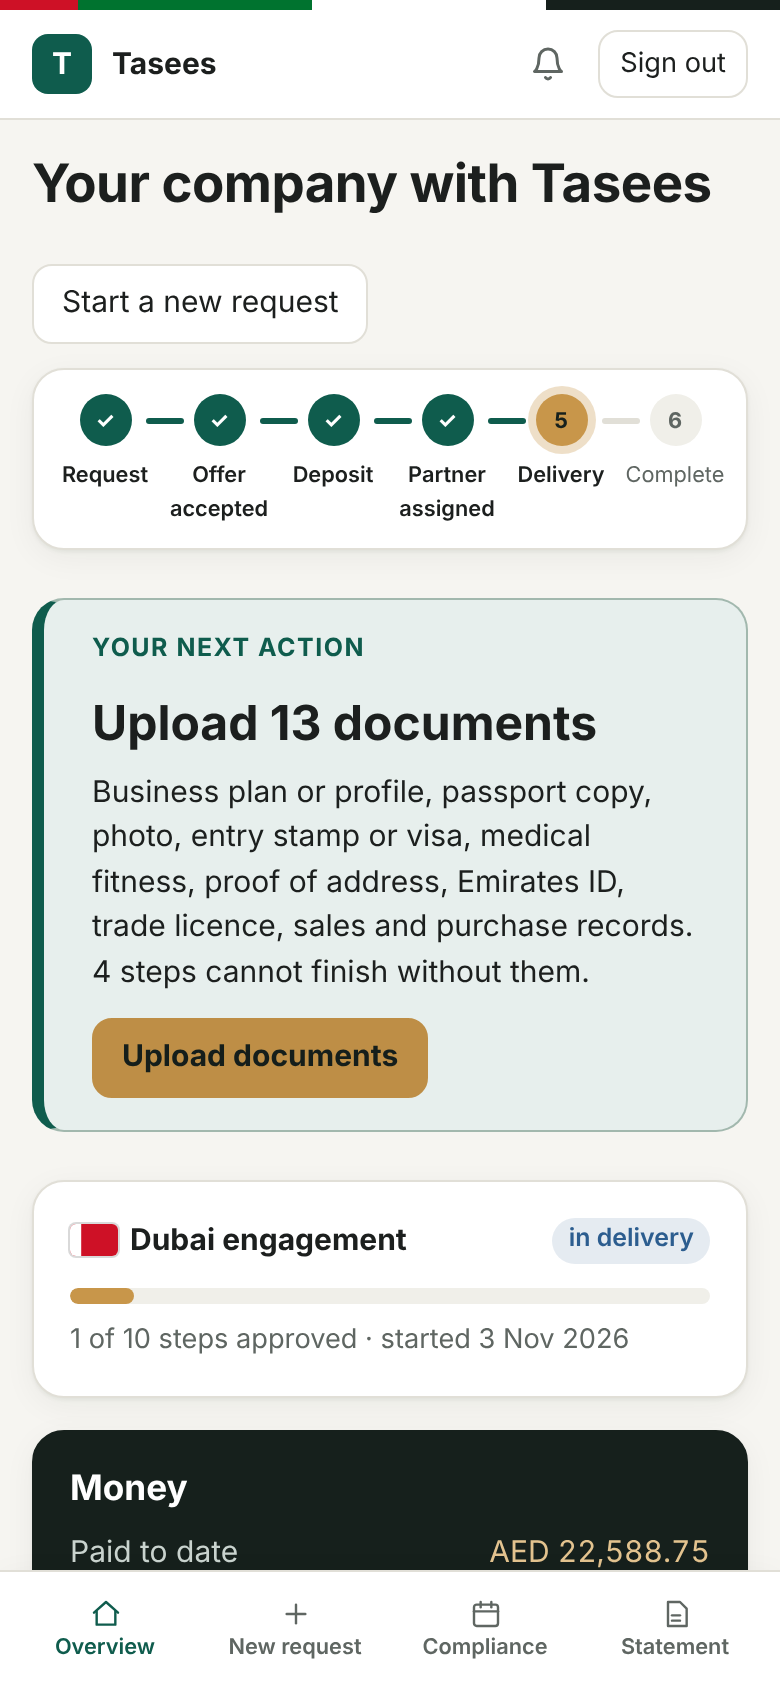
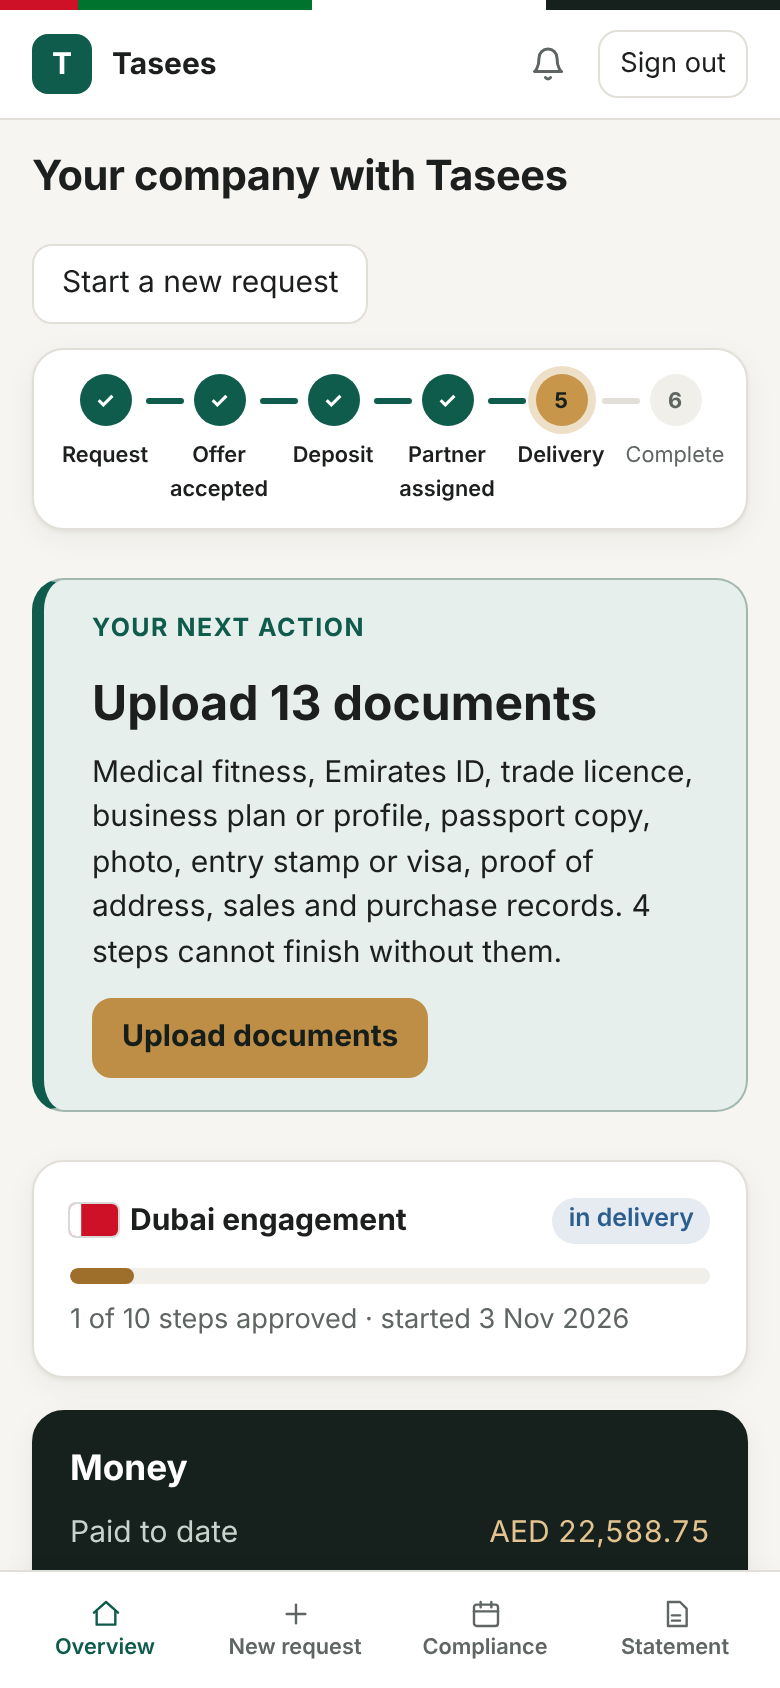
E9 review fixes: one current step, expired offers said as such, phone headings, one gold button, tab title by audience (gap 86), 3:1 progress fill, selector counter class, step details for screen readers, disputes named
Claude-Session: https://claude.ai/code/session_01QzEGiu7q2Qy5LpHAKh2X9v

diff --git a/apps/web/public/styles.css b/apps/web/public/styles.css
@@ -359,7 +359,9 @@ button.primary, .btn.primary { font-weight: 650; }
 button.gold, .btn.gold { background: var(--gold); color: var(--gold-ink); border-color: var(--gold); font-weight: 700; }
 button.gold:hover, .btn.gold:hover { filter: brightness(0.95); border-color: var(--gold); }
 .card, details.panel, .summary, .kpi { border-radius: var(--radius-lg); }
-.progress > span { background: var(--gold); }
+/* A darker gold for fills on the light track (3:1 for graphics, WCAG 1.4.11); the dark theme's gold is light enough. */
+.progress > span { background: var(--gold-fill); }
+button.link { min-height: 0; }
 .flag { display: inline-flex; vertical-align: -3px; border-radius: 3px; overflow: hidden; box-shadow: 0 0 0 1px rgba(0, 0, 0, 0.15); margin-inline-end: 6px; flex: none; }
 .flag svg { display: block; }
 /* Menus: icons beside every entry for clients and partners at every width; the staff bar is dark. */
@@ -383,7 +385,7 @@ body[data-audience="platform"] .search input::placeholder { color: var(--ink-pan
 .panel-dark { background: var(--ink-panel); color: var(--ink-panel-text); border-color: var(--ink-panel); }
 .panel-dark h2, .panel-dark b { color: var(--ink-panel-text); }
 .panel-dark .muted, .panel-dark dt, .panel-dark .small { color: var(--ink-panel-muted); }
-.panel-dark .num, .panel-dark dd, .panel-dark .gold-figure { color: var(--gold-text); font-variant-numeric: tabular-nums; }
+.panel-dark .num, .panel-dark dd { color: var(--gold-text); font-variant-numeric: tabular-nums; }
 .panel-dark a { color: var(--gold-text); }
 .panel-dark dt.total, .panel-dark dd.total { border-top-color: #3a4842; }
 .panel-dark dd.total { font-size: 1.35rem; }
@@ -405,15 +407,11 @@ ol.journey .what { font-size: var(--text-xs); font-weight: 400; color: var(--mut
 .kpis.lead-kpis .kpi:first-child { background: var(--ink-panel); border-color: var(--ink-panel); }
 .kpis.lead-kpis .kpi:first-child b { color: var(--gold-text); } .kpis.lead-kpis .kpi:first-child span { color: var(--ink-panel-muted); }
 .kpis.lead-kpis .kpi:first-child .ico { background: var(--ink-panel-2); color: var(--gold-text); }
-/* The queue's counts by urgency. */
-.qcounts { display: grid; grid-template-columns: repeat(auto-fit, minmax(150px, 1fr)); gap: 10px; margin: 0 0 var(--space-4); }
-.qcounts > div { padding: 12px 14px; border-radius: var(--radius-lg); border: 1px solid var(--line); background: var(--surface); border-inline-start: 5px solid var(--line); }
-.qcounts b { display: block; font-size: 1.5rem; font-variant-numeric: tabular-nums; }
-.qcounts .overdue { border-inline-start-color: var(--bad); } .qcounts .due_soon { border-inline-start-color: var(--warn); } .qcounts .on_track { border-inline-start-color: var(--ok); }
 @media (max-width: 640px) {
   body[data-audience="client"] nav#nav a svg, body[data-audience="partner"] nav#nav a svg { margin-inline-end: 0; }
   ol.journey { padding: var(--space-3) var(--space-2); gap: 2px; }
-  ol.journey .what { display: none; }
+  ol.journey .what { position: absolute; width: 1px; height: 1px; overflow: hidden; clip: rect(0 0 0 0); white-space: nowrap; }
+  h1 { font-size: 1.3rem; }
   ol.journey li { font-size: 0.68rem; }
   ol.journey .step { width: 26px; height: 26px; }
   ol.journey li::before { top: 12px; }

diff --git a/apps/web/public/js/client.js b/apps/web/public/js/client.js
@@ -48,7 +48,7 @@ export function clientJourney(h) {
       ["Offer accepted", "done"],
       ["Deposit", paid ? "done" : "now", paid ? "" : "due now"],
       ["Partner assigned", working ? "done" : paid ? "now" : "todo", paid && !working ? "MKW Advisors is assigning" : ""],
-      ["Delivery", working ? "now" : "todo", working ? `${e.approved} of ${e.milestones} steps approved` : ""],
+      ["Delivery", working ? "now" : "todo", e.status === "disputed" ? "an issue is open" : working ? `${e.approved} of ${e.milestones} steps approved` : ""],
       ["Complete", "todo"],
     ];
   }
@@ -58,18 +58,28 @@ export function clientJourney(h) {
   const offers = h.offers.filter((o) => o.requestId === r.id && o.status !== "withdrawn");
   const published = offers.some((o) => o.status === "published");
   const accepted = offers.some((o) => o.status === "accepted");
+  // "Being priced" only while MKW is pricing; an offer that lapsed is said as such (accepting it is refused).
+  const pricing = !published && !accepted && (["draft", "scoped", "quoting"].includes(r.status) || offers.some((o) => ["draft", "ops_review"].includes(o.status)));
+  const expired = !published && !accepted && !pricing && offers.some((o) => o.status === "expired");
   // Advice is a step only when there is advice to review ("none" is stored for a services request: no advice at all).
   const advice = r.adviceStatus === "pending_review" || r.adviceStatus === "approved";
   const adviceDone = r.adviceStatus === "approved";
-  return [
+  const steps = [
     ["Request", "done"],
     ...(advice ? [["Advice", adviceDone ? "done" : "now", adviceDone ? "" : "being checked by a person"]] : []),
-    ["Offer", accepted ? "done" : published ? "now" : advice && !adviceDone ? "todo" : "now", published && !accepted ? "ready to review" : !published && !accepted && (!advice || adviceDone) ? "being priced" : ""],
+    ["Offer", accepted ? "done" : advice && !adviceDone ? "todo" : "now", published ? "ready to review" : expired ? "expired: ask for a fresh offer" : pricing ? "being priced" : ""],
     ["Deposit", accepted ? "now" : "todo"],
     ["Delivery", "todo"],
     ["Complete", "todo"],
   ];
+  return oneNow(steps);
 }
+
+/** One step is current: an offer can be published while advice is still being checked, so later "now"s wait. */
+const oneNow = (steps) => {
+  let seen = false;
+  return steps.map(([n, st, what]) => (st === "now" ? (seen ? [n, "todo", what] : ((seen = true), [n, st, what])) : [n, st, what]));
+};
 
 export async function renderClientHome() {
   // The statement and the calendar are the client's own too; a failure in either leaves the overview standing.

diff --git a/apps/web/public/selector.html b/apps/web/public/selector.html
@@ -37,7 +37,7 @@
     .choice[aria-pressed="true"] { border-color: var(--brand); box-shadow: inset 0 0 0 1px var(--brand); background: var(--brand-soft); }
     .choice small { display: block; color: var(--muted); }
     .step { margin-top: 12px; }
-    .progress { color: var(--muted); font-size: 0.85rem; display: flex; justify-content: space-between; gap: 12px; margin: 0 0 6px; }
+    .qcount { color: var(--muted); font-size: 0.85rem; display: flex; justify-content: space-between; gap: 12px; margin: 0 0 6px; }
     progress.bar { width: 100%; height: 6px; appearance: none; border: 0; border-radius: 3px; background: var(--surface-2); overflow: hidden; }
     progress.bar::-webkit-progress-bar { background: var(--surface-2); border-radius: 3px; }
     progress.bar::-webkit-progress-value { background: var(--brand); border-radius: 3px; }
@@ -237,7 +237,7 @@
       <div class="row"><label class="small" for="code">Have a saved result? Enter its code</label><input id="code" name="code" maxlength="10" autocapitalize="characters" style="max-width:160px" placeholder="ABCDE23456" /><button type="submit" class="sm">Open</button><span class="small muted" id="recover-msg" aria-live="polite"></span></div>
     </form>
     <form class="card" id="questions" novalidate hidden>
-      <p class="progress"><span id="progress" aria-live="polite"></span><span id="progress-left"></span></p>
+      <p class="qcount"><span id="progress" aria-live="polite"></span><span id="progress-left"></span></p>
       <progress class="bar" id="bar" max="100" value="0" aria-hidden="true"></progress>
       <div id="step" class="step"></div>
       <div class="row noprint" style="margin-top:12px">

diff --git a/apps/web/public/js/core.js b/apps/web/public/js/core.js
@@ -100,7 +100,9 @@ window.addEventListener("resize", () => {
 export let lastAnnounced = "";
 export function announceRoute() {
   const h1 = $app.querySelector("h1")?.textContent?.trim();
-  document.title = h1 ? `${h1} · Tasees` : "Tasees workspace";
+  // The tab carries the brand the reader has (gap 86, rule 10): Tasees for clients and visitors, MKW Advisors otherwise.
+  const brand = state.me && !isClient() ? "MKW Advisors" : "Tasees";
+  document.title = h1 ? `${h1} · ${brand}` : `${brand} workspace`;
   const key = location.hash;
   if (key !== lastAnnounced) {
     lastAnnounced = key;
@@ -191,7 +193,8 @@ const KPI_ICON = {
   alert: '<path d="M12 3 2 20h20z"/><path d="M12 10v4"/><path d="M12 17h.01"/>',
   flag: '<path d="M5 21V4"/><path d="M5 4h12l-2 4 2 4H5"/>',
 };
-/** A KPI tile: the figure, its label, an optional line under it and an icon. */
+/** A KPI tile: the figure, its label, an optional line under it and an icon. `label`, `value` and `sub` are HTML: callers
+ *  pass constants, numbers or already-escaped markup (`aed`, `badge`), never raw user text. */
 export const kpiTile = (label, value, sub = "", ico = "") =>
   `<div class="kpi">${KPI_ICON[ico] ? `<span class="ico" aria-hidden="true"><svg width="20" height="20" viewBox="0 0 24 24" fill="none" stroke="currentColor" stroke-width="1.8" stroke-linecap="round" stroke-linejoin="round">${KPI_ICON[ico]}</svg></span>` : ""}<b>${value}</b><span>${label}</span>${sub ? `<br>${sub}` : ""}</div>`;
 

diff --git a/apps/web/public/js/engagement.js b/apps/web/public/js/engagement.js
@@ -273,7 +273,7 @@ function renderClientEngagement(e, parts) {
       ${t.detail ? `<div class="small">Your words: <span data-no-i18n>${esc(t.detail)}</span></div>` : ""}
       ${step ? parts.delayLine(step) : ""}
       ${evidence.length ? `<div class="small">Evidence: ${evidence.map((x) => `<a href="/api/evidence/${x.id}/file" target="_blank" rel="noopener">${esc(x.fileName)}</a>`).join(" · ")}</div>` : ""}
-      ${t.kind === "step" && t.state === "now" ? `<div class="actions"><button class="sm primary gold" data-act="ms-review" data-id="${t.ref}" data-approve="1" aria-describedby="tl-${esc(t.ref)}">Approve</button><button class="sm danger" data-act="ms-review" data-id="${t.ref}" data-approve="0" aria-describedby="tl-${esc(t.ref)}">Raise an issue</button></div>` : ""}
+      ${t.kind === "step" && t.state === "now" ? `<div class="actions"><button class="sm primary" data-act="ms-review" data-id="${t.ref}" data-approve="1" aria-describedby="tl-${esc(t.ref)}">Approve</button><button class="sm danger" data-act="ms-review" data-id="${t.ref}" data-approve="0" aria-describedby="tl-${esc(t.ref)}">Raise an issue</button></div>` : ""}
       ${pay && pay.status === "pending" && pay.payUrl ? `<div class="actions"><a class="btn sm primary" href="${esc(pay.payUrl)}">Pay by card</a></div>` : ""}
     </div></li>`;
   };

diff --git a/apps/web/public/tokens.css b/apps/web/public/tokens.css
@@ -36,7 +36,7 @@
   --bad: #b23b3b;
   --info: #2c5d8f;
   /* E9: the gold of the strongest action and of figures on dark panels, and the dark panel itself. */
-  --gold: #c8964a; --gold-ink: #16201c; --gold-text: #e3c38f;
+  --gold: #c8964a; --gold-ink: #16201c; --gold-text: #e3c38f; --gold-fill: #9e6f2a;
   --ink-panel: #16201c; --ink-panel-2: #24302b; --ink-panel-text: #ffffff; --ink-panel-muted: #c9d3ce;
   --radius: 12px;
   --shadow: 0 1px 2px rgba(20, 30, 25, 0.06), 0 4px 16px rgba(20, 30, 25, 0.05);
@@ -57,7 +57,7 @@
     --warn: #e09a4f;
     --bad: #e57373;
     --info: #74a7dd;
-    --gold: #d9a74b; --ink-panel: #0b0f0e; --ink-panel-2: #1a2220;
+    --gold: #d9a74b; --gold-fill: #d9a74b; --ink-panel: #0b0f0e; --ink-panel-2: #1a2220;
     --shadow: none;
     color-scheme: dark;
   }
@@ -65,7 +65,7 @@
 :root[data-theme="dark"] {
   --bg: #121514; --surface: #1a1e1d; --surface-2: #222827; --text: #e8ebe9; --muted: #9aa49f; --line: #2e3533;
   --brand: #3fae93; --brand-ink: #0b1210; --accent: #d9a74b; --ok: #4cc28a; --warn: #e09a4f; --bad: #e57373; --info: #74a7dd;
-  --gold: #d9a74b; --ink-panel: #0b0f0e; --ink-panel-2: #1a2220;
+  --gold: #d9a74b; --gold-fill: #d9a74b; --ink-panel: #0b0f0e; --ink-panel-2: #1a2220;
   --shadow: none; color-scheme: dark;
 }
 

diff --git a/apps/web/public/i18n-ar.js b/apps/web/public/i18n-ar.js
@@ -158,6 +158,8 @@ export const AR = {
   "Loading…": "جارٍ التحميل…",
   "Skip to content": "انتقل إلى المحتوى",
   // E9 workspace look: the client's journey tracker (draft until the Arabic reviewer signs it off)
+  "expired: ask for a fresh offer": "انتهت صلاحيته: اطلب عرضاً جديداً",
+  "an issue is open": "توجد مشكلة مفتوحة",
   "Where your work stands": "أين وصل عملك",
   "Deposit": "الدفعة المقدمة",
   "Delivery": "التنفيذ",

diff --git a/docs/DESIGN.md b/docs/DESIGN.md
@@ -48,9 +48,9 @@ new, add a token or a pattern here first.
 | Pinned next step | `section.nextaction` reused for the partner: the open step's evidence form inside it, `ul.todo` for what waits on others | Partner engagement (U1) |
 | Tab bar | At 640 px and below, for `body[data-audience="client"|"partner"]`, `nav#nav` becomes a fixed bottom bar; each link carries an inline icon (`ICON` in `js/shell.js`), shown beside the label at every width from E9 | Client and partner phones (U1); MKW staff keep the grouped menu |
 | Progress | `.progress[role=progressbar] > span` | Engagement cards |
-| UAE colours (E9) | `div.flagbar` of four spans above `header.top` (red, green, white, black), decorative (`aria-hidden`) | Every workspace screen and the selector |
-| Strongest action (E9) | `.btn.gold` / `button.gold` added to the primary button: one per screen (the next action, accepting an offer, approving a step) | Client home, offer, engagement |
-| Journey (E9) | `journey(steps, label)` in `js/core.js`: `ol.journey > li.{done,now,upcoming}` with `.step`, the name and an optional `.what`; the current step carries `aria-current="step"`; built from the platform's own states (`clientJourney` in `js/client.js`) | Client home |
+| UAE colours (E9) | `div.flagbar` of four spans above `header.top` (red, green, white, black), decorative (`aria-hidden`) | The workspace and the selector (not the stand-alone intake page) |
+| Strongest action (E9) | `.btn.gold` / `button.gold` added to the primary button: one per screen (the next action, accepting an offer); the timeline's own Approve stays plain so the pinned one is the only gold | Client home, offer, engagement |
+| Journey (E9) | `journey(steps, label)` in `js/core.js`: `ol.journey > li.{done,now,upcoming}` with `.step`, the name and an optional `.what` (kept for screen readers on a phone); one step at most carries `aria-current="step"`; built from the platform's own states (`clientJourney` in `js/client.js`): advice only when there is some, "being priced" only while MKW prices, an expired offer said as such, a dispute named | Client home |
 | Dark panel (E9) | `.panel-dark` on a card: white text, gold figures (`dd`, `.num`), gold links | Client money, the first KPI tile on staff screens (`.kpis.lead-kpis`) |
 | KPI tile (E9) | `kpiTile(label, value, sub, icon)` in `js/core.js`: `.kpi` with `.ico`, the figure, the label | Staff dashboard and queue |
 | Emirate flag (E9) | `flag(emirate)` in `js/core.js`: an inline simplified flag, nothing for an unknown name | Client engagements, staff request and lead pages, advice places |

diff --git a/outcomes/E9-workspace-look.md b/outcomes/E9-workspace-look.md
@@ -50,11 +50,30 @@ dark console bar for staff. Nothing a screen says changes, and every number on i
 Evidence recorded on 3 Nov 2026 (`docs/evidence/E9/`):
 
 - `pnpm test`: core 139 passed; api 359 passed, 1 skipped, on PGlite (`tests-pglite.txt`). `pnpm typecheck` clean.
-- `scripts/smoke.mjs` against a fresh demo: 288 checks OK, 0 failed (`smoke-log.txt`; 279 after E8).
+- `scripts/smoke.mjs` against a fresh demo: 290 checks OK, 0 failed (`smoke-log.txt`; 279 after E8).
 - axe on 52 screens, 0 violations, including "client home with the journey and the money panel (E9)" and "staff
   dashboard with icon tiles (E9)" (`axe.json`).
 - Screenshots: `106-client-home-journey.png`, `13-client-engagement-approved.png`, `107-staff-dashboard.png`,
   `61-console-menu.png` (1280 px); `75-mobile-client-home.png`, `77-mobile-client-timeline.png` (390 px).
+
+## Reviews
+
+- Codex: a services request stores advice "none", which read as an Advice step "being checked". The step now shows
+  only when there is advice to review, with a smoke check.
+- Independent review: fixed
+  - two steps "now" at once (pending advice with a published offer);
+  - an expired offer said to be "being priced";
+  - headings larger on phones;
+  - two gold buttons on the engagement page;
+  - the tab title still saying Tasees to partners and staff (gap 86 closed);
+  - the gold progress fill below 3:1 contrast (a darker `--gold-fill`);
+  - the selector's question counter clipped by the shared `.progress` class (renamed `.qcount`);
+  - the step details hidden from screen readers on phones;
+  - a dispute shown as plain delivery;
+  - a menu-icon check that could pass falsely;
+  - unused styles; doc wording.
+- Recorded rather than changed: the static T before the first render after a reload (D91); a completed engagement
+  with a newer cancelled one reads as all done (the cancelled one is not current work).
 
 ## Dependencies
 

diff --git a/docs/KNOWN-GAPS.md b/docs/KNOWN-GAPS.md
@@ -223,7 +223,7 @@ in a browser; everything listed here is not.
     scope templates, the same for every tier. The screen therefore calls the tier "Priority" and promises no pace
     (raised in the U1 review). Carrying the quoted working days into offer lines, the proposal and the delivery plan is
     an API and schema change for a later outcome.
-86. **The browser tab title says "Tasees" for partners.** `document.title` follows the heading with " · Tasees" for
+86. ~~**The browser tab title says "Tasees" for partners.**~~ Closed by E9: the suffix follows the audience (D91). `document.title` follows the heading with " · Tasees" for
     every signed-in role (`js/core.js`), so a partner's tab carries the client brand; the page itself is branded MKW
     Advisors Partner Network. Pre-dates U1; noted in its review. Fix: pick the suffix by audience.
 87. **Arabic entries missing for some E5 and E6 client strings.** The gap list the Arabic reviewer sees, read by the
@@ -322,7 +322,7 @@ in a browser; everything listed here is not.
 114. **The partner screens get the shared look only** (the bar, the flag colours, gold progress, the M mark); the
      canvas's partner scorecard and evidence-progress panels are not built, and neither are the canvas's invented
      figures on any screen (D91).
-115. **The journey tracker reads one piece of work**: the first live engagement, else the newest open request. A
+115. **The journey tracker reads one piece of work**: the newest live engagement, else the newest open request. A
      client with several at once sees the others in their cards below it, not in the tracker.
 116. **The new Arabic labels for the journey are drafts** until the Arabic reviewer signs them off (with gap 111).
 

diff --git a/docs/DECISIONS.md b/docs/DECISIONS.md
@@ -997,6 +997,8 @@ canvas of 3 Nov 2026 and its review round.)
   bar with icons and a gold marker. The owner chose this over the canvas's sidebar on 3 Nov 2026 ("keep the grouped
   staff menu").
 - The brand mark is T for Tasees only for clients and signed-out visitors; partners and staff see M for MKW Advisors
-  (rule 10: nothing addressed to a partner carries Tasees, and the letter on the mark was the last place it did).
+  (rule 10: nothing addressed to a partner carries Tasees). The browser tab's title follows the same rule, "· MKW
+  Advisors" for partners and staff (gap 86 closed). Before the first render after a reload the static page still
+  shows the T for an instant, until the session is read.
 - System fonts stay (no web font: no new dependency, nothing loaded from a third party on a client's screen).
 
